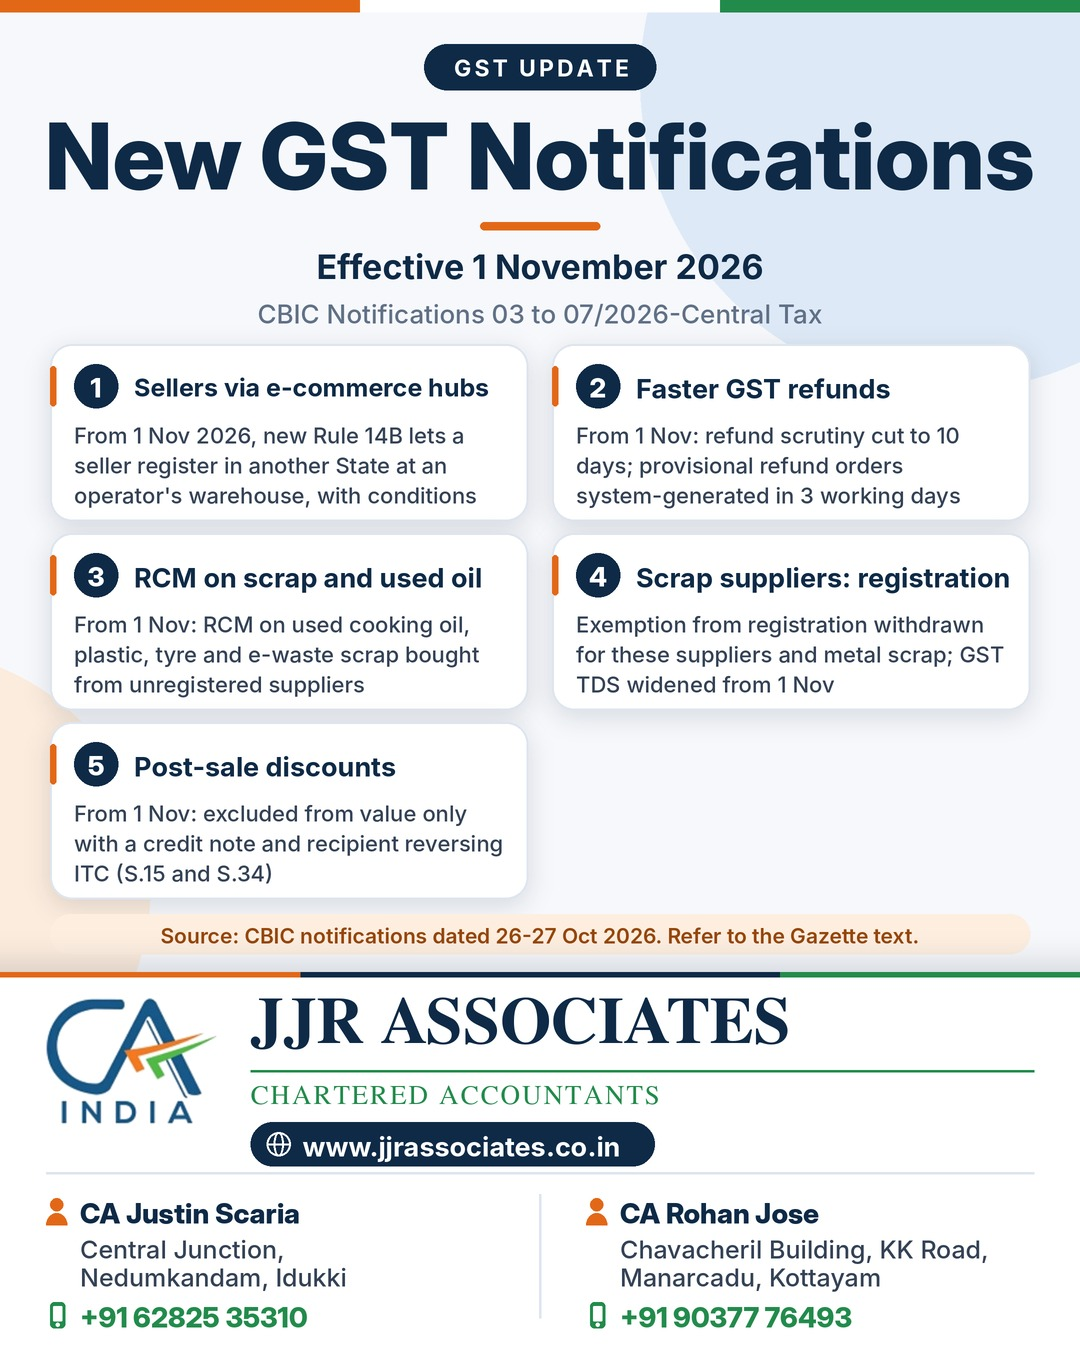
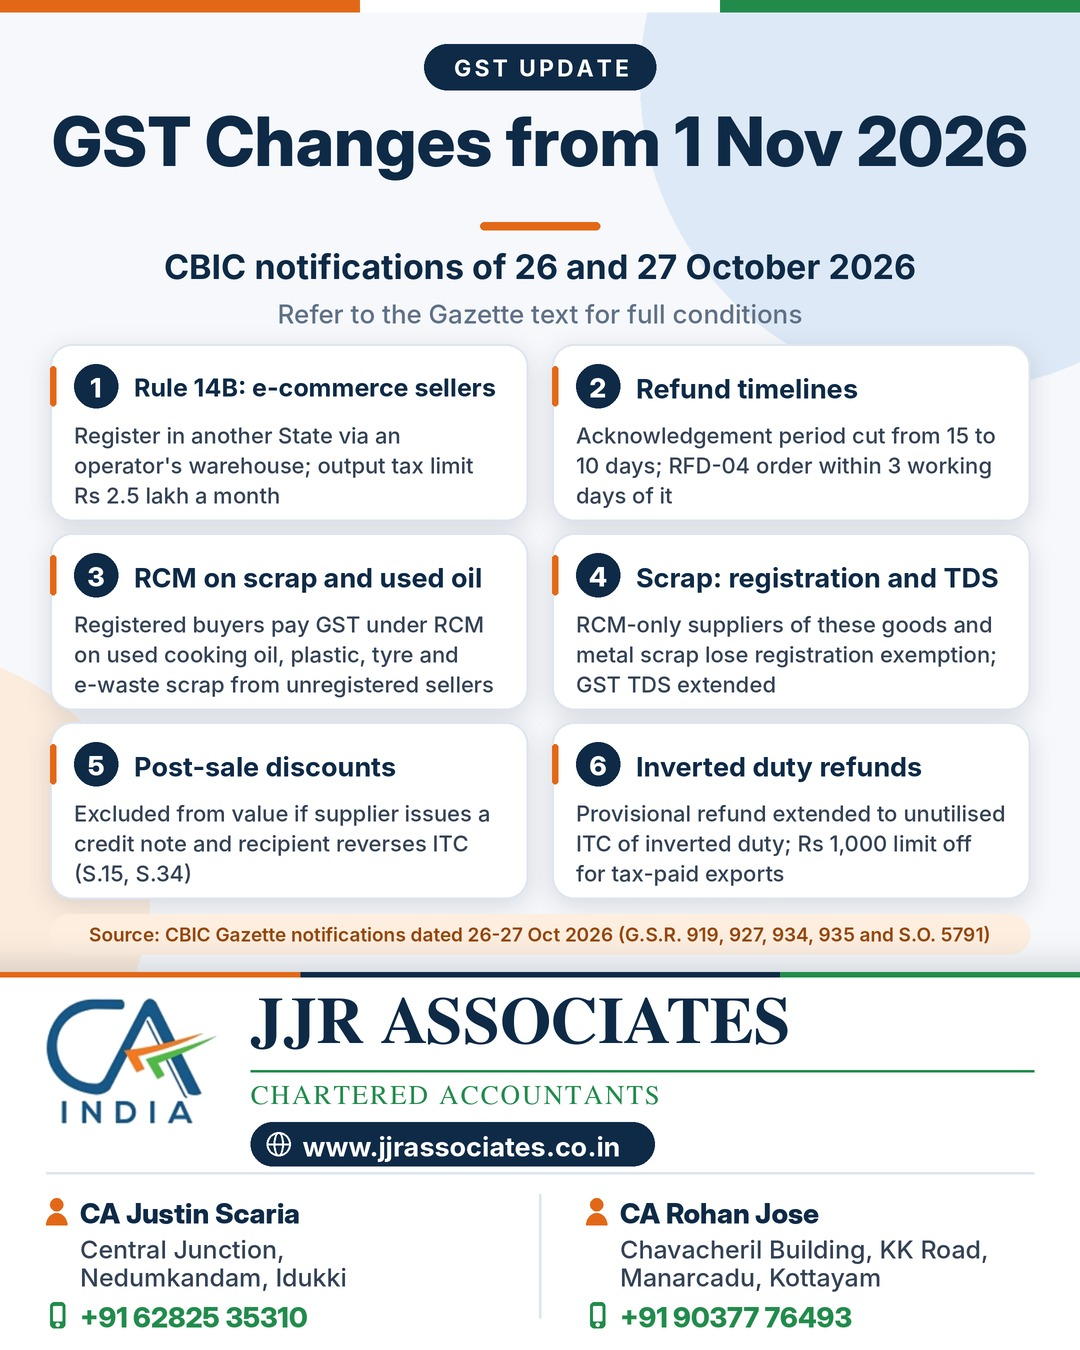
29 Oct: verified rebuilt GST post and story

diff --git a/runs/2026-10-29.md b/runs/2026-10-29.md
@@ -9,3 +9,5 @@ Metricool: story id 409596246 (08:05 IST), post id 409596255 (08:10 IST). Commit
 UPDATE ~07:55 IST: user instruction 'only post info if true and fully correct'. Content was based on tracker summaries, not official CBIC text -> both Metricool items converted to DRAFT, autoPublish off (new ids 409621057 story, 409621065 post). NOT published. RULE FOR LATER RUNS: publish only what is confirmed from official text; Metricool has no delete tool, drafts remain for user to delete.
 
 VERIFY ATTEMPT ~08:00 IST: cbic.gov.in blocked (robots), cbic-gst.gov.in and gstcouncil.gov.in notification pages stale (no 2026 entries), guessed PDF failed. No official text or PIB release reachable. Tracker conflicts found: notification numbering (caclubindia: 04/2026=RCM; Taxonation: 04/2026=e-invoicing from 1 Jan 2027); Rule 14B cap (Free Press: ITC cap; TaxO/India Briefing/Taxonation: output tax cap Rs 2.5 lakh); refund 'scrutiny' vs 'acknowledgement' wording. DECISION: NOT published. Items remain drafts.
+
+VERIFIED ~08:05 IST via gazette text (copies of Gazette notifications hosted on taxguru.in and a2ztaxcorp.net, with G.S.R. numbers; not downloaded from CBIC site): 05/2026-CT G.S.R. 919(E) 26.10.26 (Rule 14B output tax cap Rs 2.5 lakh/month, Rule 90 15->10 days, Rule 91 RFD-04 in 3 working days); 03/2026-CT S.O. 5791(E) (Finance Act ss.153-155 from 1.11.26); 04/2026-CT(Rate) G.S.R. 927(E) 27.10.26 RCM; 06/2026-CT G.S.R. 934(E) registration exemption; 07/2026-CT G.S.R. 935(E) TDS. Earlier '03 to 07/2026-CT' heading was wrong (04 is Rate series); dropped. Cards rebuilt (6). Rescheduled story/post at 08:15/08:20 IST.
